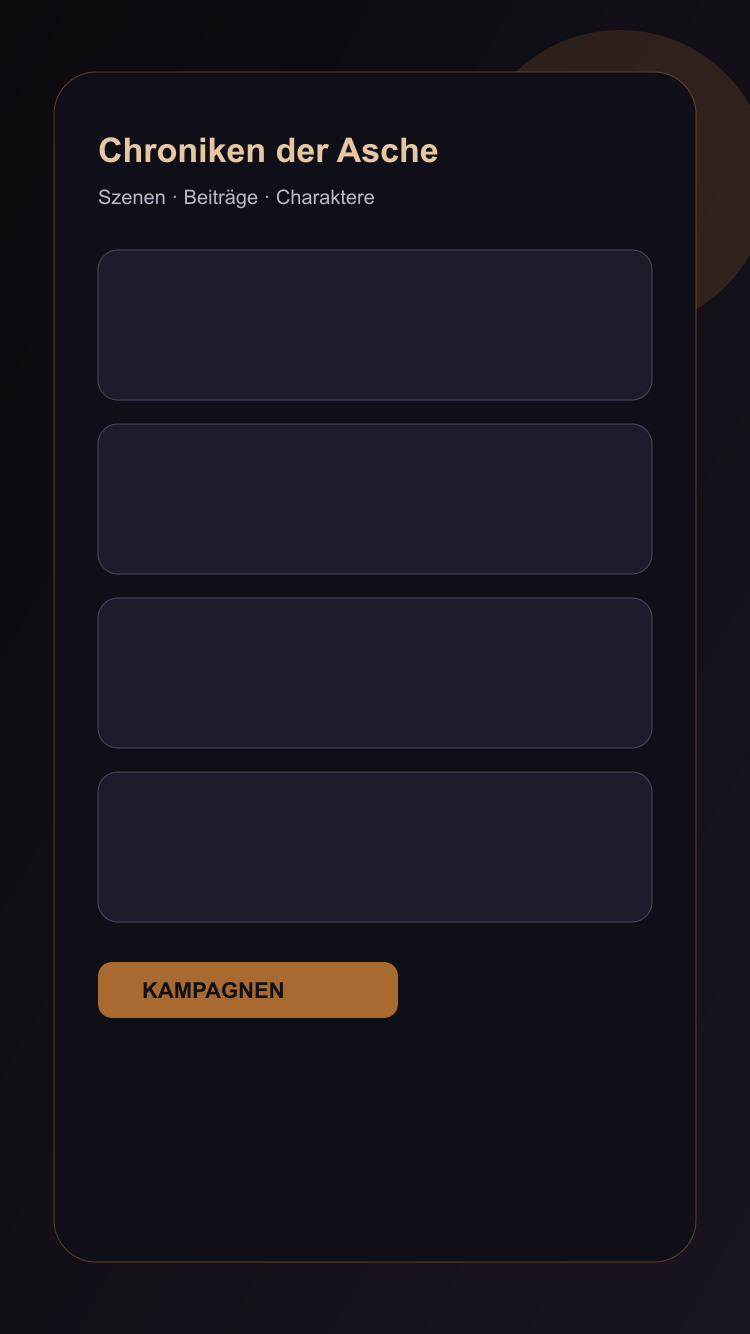
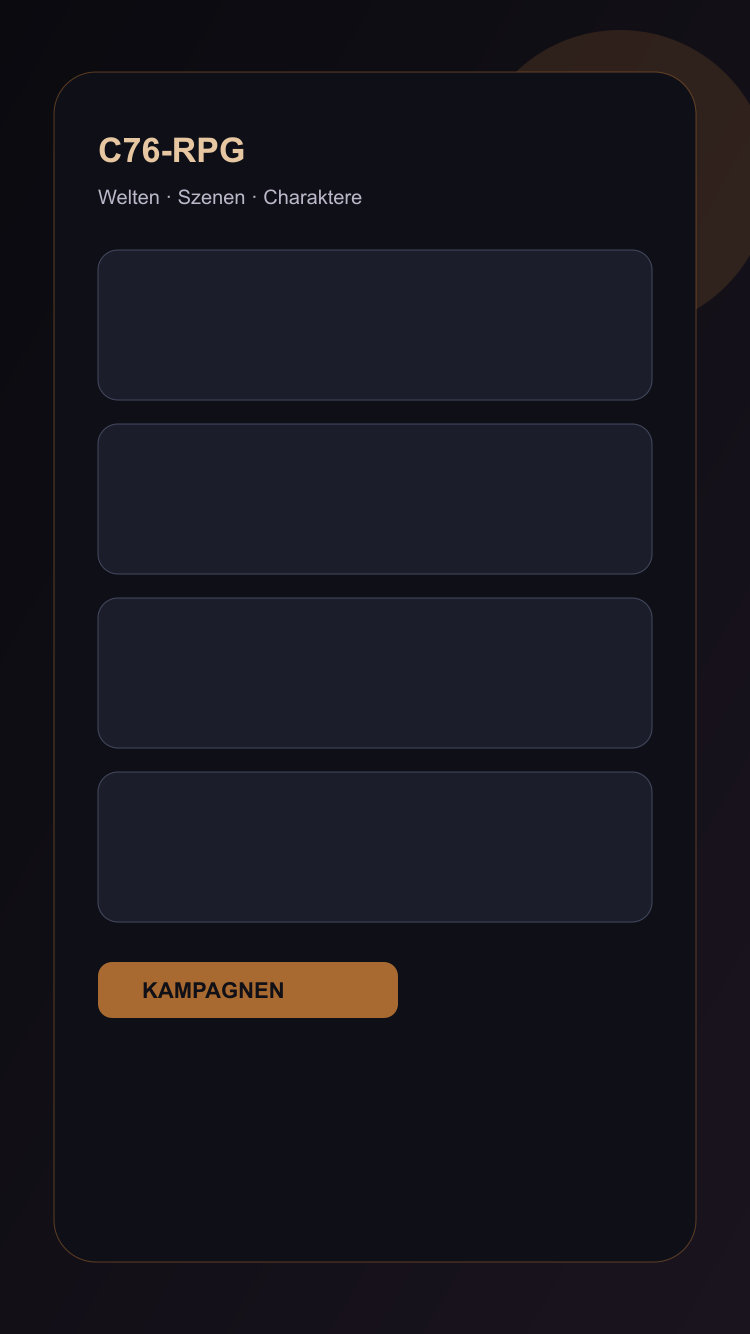
feat(branding): switch platform identity to C76-RPG assets

Changed region(s): [[0.1227, 0.0922, 0.5827, 0.1537]]

diff --git a/public/offline.html b/public/offline.html
@@ -5,7 +5,7 @@
         <meta name="viewport" content="width=device-width, initial-scale=1">
         <meta name="theme-color" content="#0f0f14">
         <meta name="robots" content="noindex, nofollow, noarchive, nosnippet, noimageindex, max-snippet:0, max-image-preview:none, max-video-preview:0">
-        <title>Offline | Chroniken der Asche</title>
+        <title>Offline | C76-RPG</title>
         <style>
             @font-face {
                 font-family: 'Goldman';
@@ -85,14 +85,14 @@
     </head>
     <body>
         <main>
-            <h1>Die Chronik ist offline</h1>
+            <h1>C76-RPG ist offline</h1>
             <p>
                 Du kannst weiterhin bereits gecachte Szenen und Charakterblaetter lesen. Neue Beitraege aus Szenen werden offline vorgemerkt und beim naechsten Online-Moment automatisch gesendet.
             </p>
             <p>
                 <a href="/">Zur Startseite</a>
             </p>
-            <p class="meta">Chroniken der Asche · Offline-Modus aktiv</p>
+            <p class="meta">C76-RPG · Offline-Modus aktiv</p>
         </main>
     </body>
 </html>

diff --git a/resources/views/layouts/auth.blade.php b/resources/views/layouts/auth.blade.php
@@ -16,7 +16,7 @@
         <meta name="apple-mobile-web-app-status-bar-style" content="black-translucent">
         @php($appName = config('app.name', 'C76-RPG'))
         @php($metaDescription = trim((string) $__env->yieldContent('meta_description', 'C76-RPG ist eine asynchrone Play-by-Post Plattform mit Kampagnen, Szenen und Charakterverwaltung in mehreren Welten.')))
-        @php($ogImage = asset('images/og/chroniken-der-asche-og.png'))
+        @php($ogImage = asset('images/og/c76-rpg-og.png'))
         @php($pageUrl = url()->current())
         @php($characterSheetGlobalPath = public_path('js/character-sheet.global.js'))
         @if (file_exists($characterSheetGlobalPath))

diff --git a/resources/views/welcome.blade.php b/resources/views/welcome.blade.php
@@ -14,7 +14,7 @@
         @php($appName = config('app.name', 'C76-RPG'))
         @php($pageTitle = 'C76-RPG | Multi-Welt Play-by-Post Plattform')
         @php($metaDescription = 'C76-RPG ist eine asynchrone Multi-Welt Play-by-Post Plattform mit Kampagnen, Szenen und Charakterverwaltung.')
-        @php($ogImage = asset('images/og/chroniken-der-asche-og.png'))
+        @php($ogImage = asset('images/og/c76-rpg-og.png'))
         @php($pageUrl = url()->current())
 
         <meta property="og:site_name" content="{{ $appName }}">
